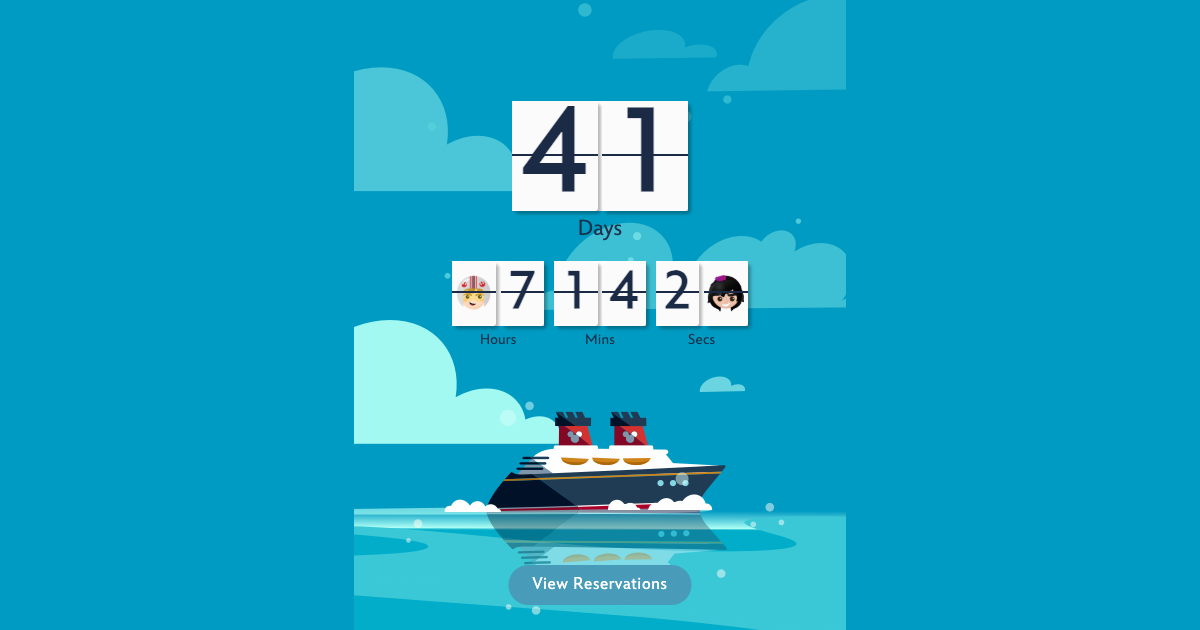
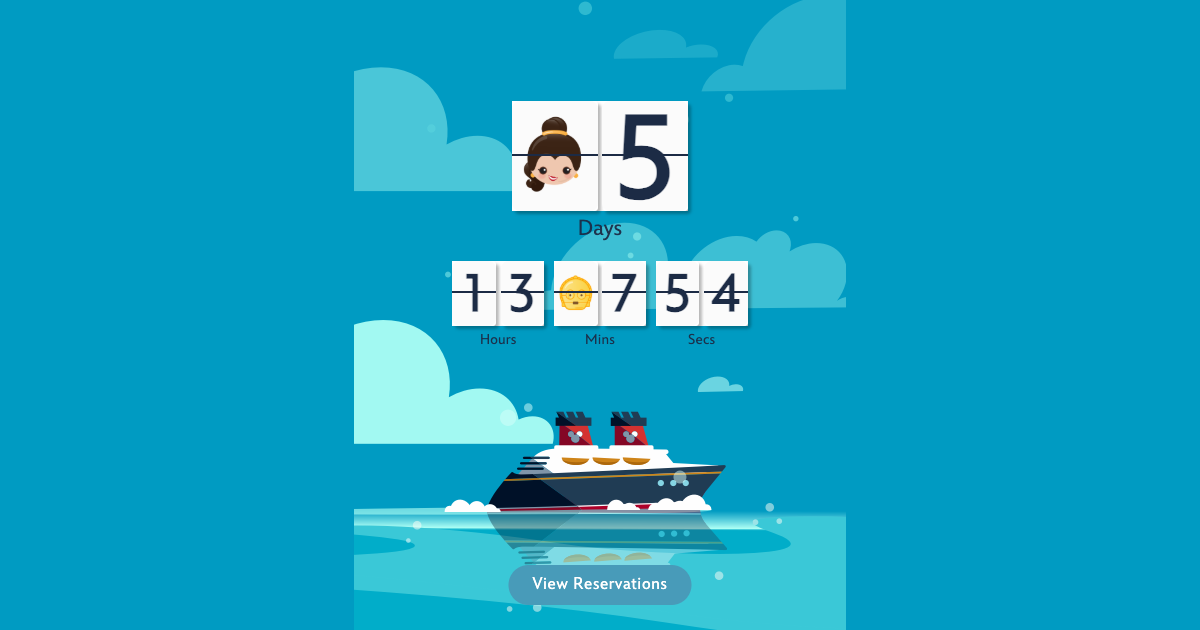
Rename to "Disney Cruise Countdown" and refresh og-image
Drop "Timer" from the title, Open Graph/Twitter tags, and JSON-LD name
for consistency, and tweak the about text wording to match. Regenerate
og-image.png from the current layout, using a single-digit days value
to show off the emoji-zero digit.

diff --git a/index.html b/index.html
@@ -3,7 +3,7 @@
 <head>
   <meta charset="UTF-8" />
   <meta name="viewport" content="width=device-width, initial-scale=1.0" />
-  <title>Disney Cruise Countdown Timer | Flip-Card Sail Date Clock</title>
+  <title>Disney Cruise Countdown | Flip-Card Sail Date Clock</title>
   <meta
     name="description"
     content="Count down to your Disney Cruise Line sail date with an animated flip-card timer. Pick your ship and real departure date and watch it tick down."
@@ -13,7 +13,7 @@
 
   <meta property="og:type" content="website" />
   <meta property="og:site_name" content="Disney Cruise Countdown" />
-  <meta property="og:title" content="Disney Cruise Countdown Timer" />
+  <meta property="og:title" content="Disney Cruise Countdown" />
   <meta
     property="og:description"
     content="Count down to your Disney Cruise Line sail date with an animated flip-card timer over an animated ocean scene. Pick your ship and real departure date."
@@ -24,7 +24,7 @@
   <meta property="og:image:height" content="630" />
 
   <meta name="twitter:card" content="summary_large_image" />
-  <meta name="twitter:title" content="Disney Cruise Countdown Timer" />
+  <meta name="twitter:title" content="Disney Cruise Countdown" />
   <meta
     name="twitter:description"
     content="Count down to your Disney Cruise Line sail date with an animated flip-card timer over an animated ocean scene."
@@ -41,7 +41,7 @@
     {
       "@context": "https://schema.org",
       "@type": "WebApplication",
-      "name": "Disney Cruise Countdown Timer",
+      "name": "Disney Cruise Countdown",
       "description": "Count down to your Disney Cruise Line sail date with an animated flip-card timer, real ship departure dates, and an animated ocean scene.",
       "url": "https://nateyolles.github.io/DCL_Countdown/",
       "applicationCategory": "LifestyleApplication",
@@ -149,7 +149,7 @@
       <label id="about-modal-label">About</label>
 
       <p>
-        This is a countdown timer to your next Disney Cruise Line sail date.
+        This is a countdown to your next Disney Cruise Line sail date.
       </p>
       <p>
         While there's nothing like being on a Disney Cruise, the next best thing is
@@ -158,8 +158,8 @@
       </p>
       <p>
         Depending on your operating system and browser, you may be able to display this
-        countdown timer in full screen mode, as a picture-in-picture overlay or even as
-        a desktop widget. Rotate the countdown timer to display it in a
+        countdown in full screen mode, as a picture-in-picture overlay or even as
+        a desktop widget. Rotate the countdown to display it in a
         vertically oriented monitor to more closely resemble the DCL App.
       </p>
       <p>
